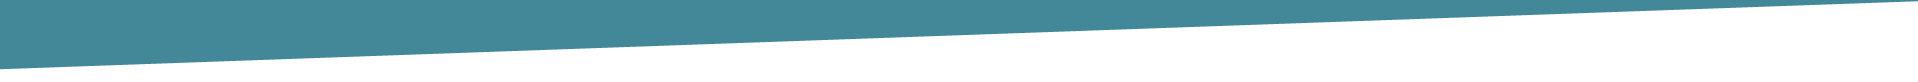
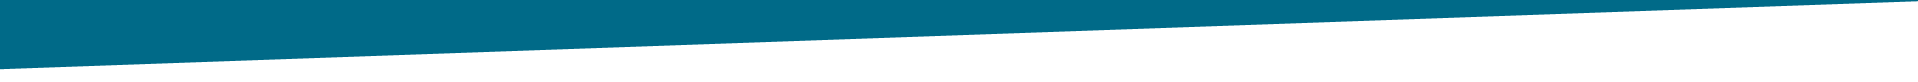
minor tweaks

diff --git a/data/codePreview.js b/data/codePreview.js
@@ -23,11 +23,15 @@ Promise.all([
         // banner
 
         videoBanner = body.append("video")
-            .attr("playsinline", "").attr("autoplay", "")
-            .attr("muted", "").attr("loop", "")
-            .attr("id", "bgvid").selectAll("body")
-            .data([websiteContent]).enter()
-        videoBanner.append("source")
+            .attr("playsinline", "")
+            .attr("autoplay", "")
+            .attr("muted", "")
+            .attr("loop", "")
+            .attr("id", "bgvid")
+            .selectAll("body")
+            .data([websiteContent])
+            .enter()
+        videoBanner.append("bgvid")
             .attr("src", d => d.videoBanner.bannerVideo)
             .attr("type", "video/mp4")
 
@@ -52,6 +56,7 @@ Promise.all([
             .html(d => d.header.h2)
 
         // skills section
+        body.append("div").classed("top", true)
 
         skillsSection = body.append("section")
             .classed("skills-parent", true)
@@ -75,6 +80,7 @@ Promise.all([
             .classed("skills", true)
             .append("div")
             .classed("skills-detail", true)
+        body.append("div").classed("bottom", true)
 
         uniqueSkillTiles.append("img")
             .attr("src", d => d.img)
@@ -132,8 +138,8 @@ Promise.all([
         portfolioDetails.append("div")
             .classed("portfolio-description", true)
             .html(d => d.title)
-
-        //timeline
+        body.append("div").classed("bottom2", true)
+            //timeline
 
         timelineSection = body.append("section")
             .classed("section section--grey", true)
@@ -180,7 +186,7 @@ Promise.all([
         d3.select(".timeline")
             .append("li")
             .classed("timeline-line", true)
-
+        body.append("div").classed("bottom3", true)
         startTimeline()
 
 

diff --git a/js/content.js b/js/content.js
@@ -56,6 +56,7 @@ Promise.all([
             .html(d => d.header.h2)
 
         // skills section
+        body.append("div").classed("top", true)
 
         skillsSection = body.append("section")
             .classed("skills-parent", true)
@@ -79,6 +80,7 @@ Promise.all([
             .classed("skills", true)
             .append("div")
             .classed("skills-detail", true)
+        body.append("div").classed("bottom", true)
 
         uniqueSkillTiles.append("img")
             .attr("src", d => d.img)
@@ -136,8 +138,8 @@ Promise.all([
         portfolioDetails.append("div")
             .classed("portfolio-description", true)
             .html(d => d.title)
-
-        //timeline
+        body.append("div").classed("bottom2", true)
+            //timeline
 
         timelineSection = body.append("section")
             .classed("section section--grey", true)
@@ -184,7 +186,7 @@ Promise.all([
         d3.select(".timeline")
             .append("li")
             .classed("timeline-line", true)
-
+        body.append("div").classed("bottom3", true)
         startTimeline()
 
 

diff --git a/css/style.css b/css/style.css
@@ -57,6 +57,26 @@ pre {outline: 0px solid #ccc; padding: 10px; margin: 5px; }
     color: #157400;
     white-space: break-spaces;
 }
+.top {
+    background-image: url(../images/top.png), linear-gradient(rgb(0 106 136 / 57%), rgb(0 106 136 / 57%));
+    height: 80px;
+    background-position-x: center;
+}
+.bottom {
+    background-image: url(../images/bottom.png), linear-gradient(rgb(0 106 136 / 100%), rgb(0 106 136 / 100%));
+    height: 80px;
+    background-position-x: center;
+}
+.bottom2 {
+    background-image: url(../images/bottom2.png), linear-gradient(#f3f3f3, #f3f3f3);
+    height: 80px;
+    background-position-x: center;
+}
+.bottom3 {
+    background-image: url(../images/top.png), linear-gradient(rgb(243 243 243), rgb(243 243 243));
+    height: 80px;
+    background-position-x: center;
+}
 /*.number { color: darkorange; }*/
 .boolean { color: red; }
 .null { color: magenta; }
